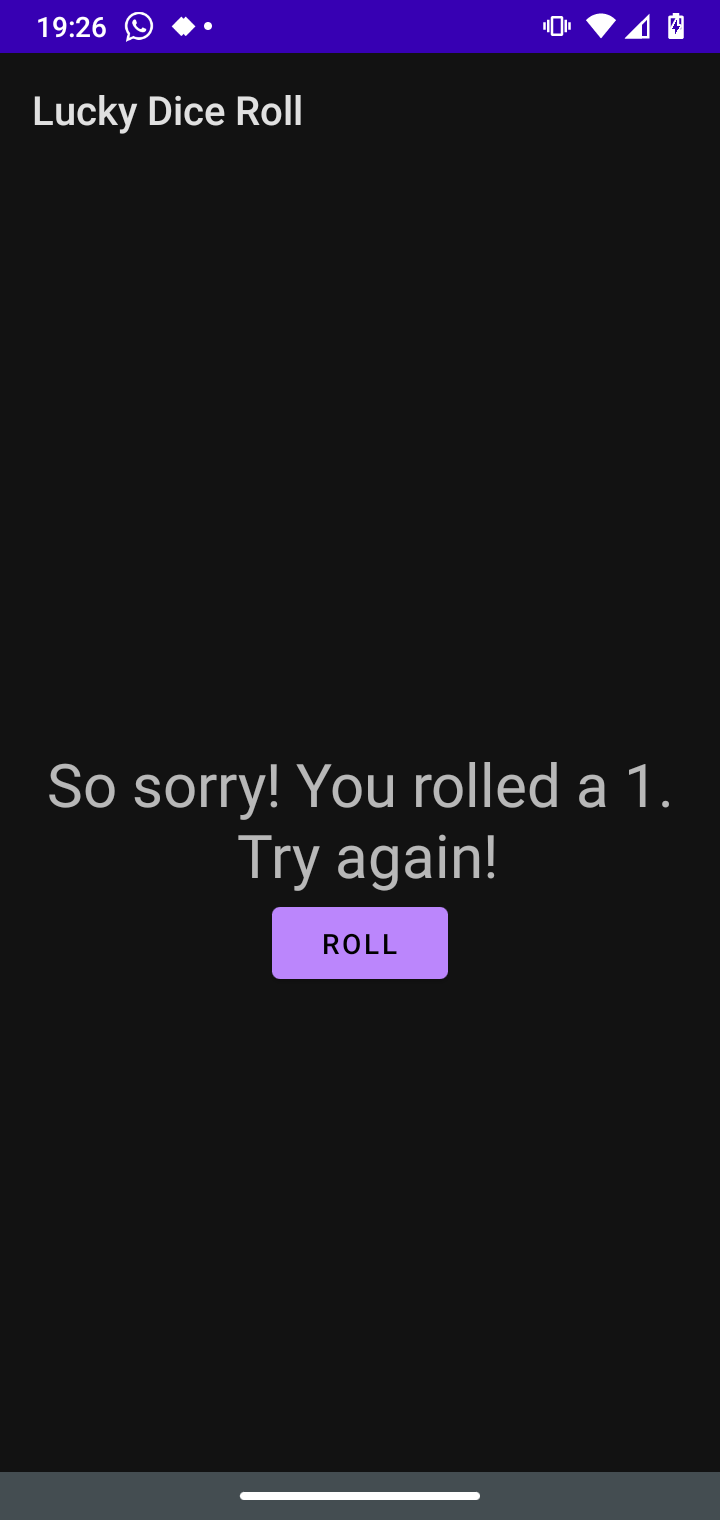
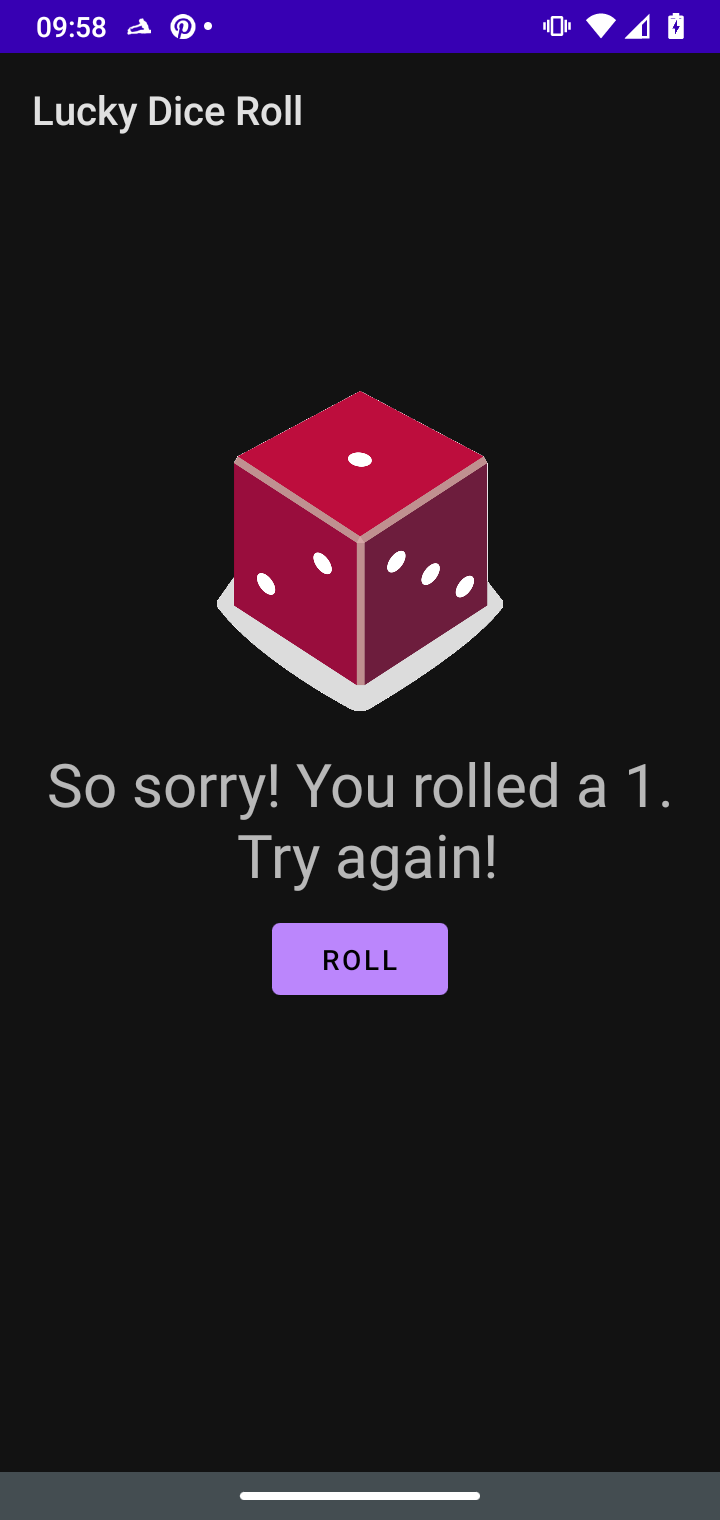
Adding images

diff --git a/app/src/main/java/com/example/diceroller/MainActivity.kt b/app/src/main/java/com/example/diceroller/MainActivity.kt
@@ -2,6 +2,7 @@ package com.example.diceroller
 
 import android.os.Bundle
 import android.widget.Button
+import android.widget.ImageView
 import android.widget.TextView
 import androidx.appcompat.app.AppCompatActivity
 
@@ -19,7 +20,7 @@ class MainActivity : AppCompatActivity() {
     }
 
     private fun rollDice() {
-        val myFirstDice = Dice(8)
+        val myFirstDice = Dice(6)
         val rollResult = myFirstDice.roll()
         val luckyNumber = 4
         val result = when (rollResult) {
@@ -35,6 +36,25 @@ class MainActivity : AppCompatActivity() {
         // Update the screen with the dice roll
         val resultTextView: TextView = findViewById(R.id.textView)
         resultTextView.text = result
+
+        // Find the ImageView in the layout
+        val diceImage: ImageView = findViewById(R.id.imageView)
+
+        // Determine which drawable resource ID to use based on the dice roll
+        val drawableResource = when (rollResult) {
+            1 -> R.drawable.dice_1
+            2 -> R.drawable.dice_2
+            3 -> R.drawable.dice_3
+            4 -> R.drawable.dice_4
+            5 -> R.drawable.dice_5
+            else -> R.drawable.dice_6
+        }
+
+        // Update the ImageView with the correct drawable resource ID
+        diceImage.setImageResource(drawableResource)
+
+        // Update the content description
+        diceImage.contentDescription = rollResult.toString()
     }
 }
 

diff --git a/README.md b/README.md
@@ -2,6 +2,8 @@
 
 Dice Roller app from Android Basics in Kotlin at developers.google.com.
 
-It is a simple demo using ConstraintLayout, TextView and Button.
+It is a simple demo using ConstraintLayout, TextView, Button and imageView.
+
+With two Dices.
 
 <center><img src="screenshot-Dice-Roller-app.png" height=512 width=288 /></center>
